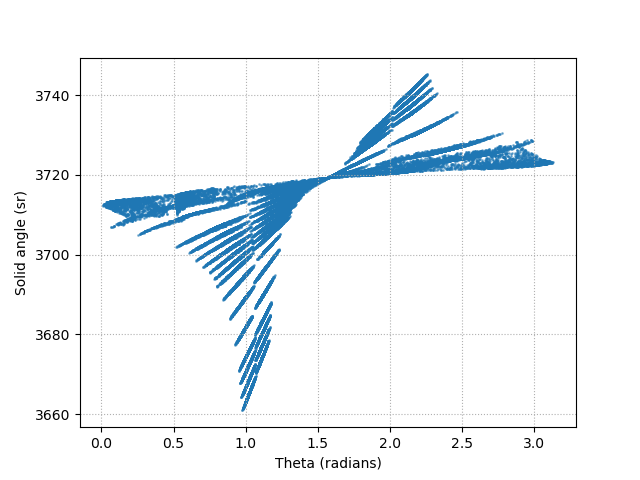
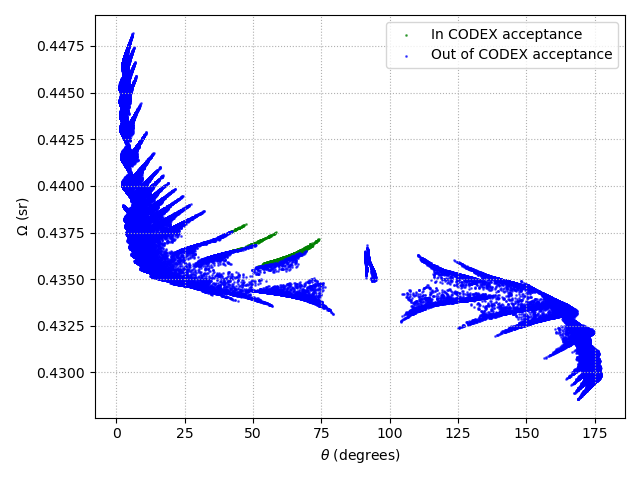
plots emilio

diff --git a/codexb_acceptance.py b/codexb_acceptance.py
@@ -9,6 +9,14 @@ nrows = 100000 # load just the fist 100 000 of rows
 
 df = read_root(path, tree, columns, nrows=nrows)
 
+# Define spherical variables
+
+df['r'] = np.sqrt(df['x']**2 + df['y']**2 + df['z']**2)
+df['theta'] = np.arctan2(np.sqrt(df['x']**2 + df['y']**2), df['z'])
+df['phi'] = np.arctan2(df['y'], df['x'])
+
+df['eta'] = -np.log(np.tan(df['theta'] / 2))
+
 # Define CODEX-B acceptance geometry, model the acceptance as a cone of radius d at distance r from the interaction point
 
 r = 10000 # radius of the cone in mm
@@ -19,33 +27,38 @@ z = 12650 # mm
 
 d = np.sqrt( x**2 + y**2 + z**2 )
 
-theta_max = np.arctan(r/d)
+codex_angular_aperture = np.arctan(r/d)
+
+print(f'Codex angular aperture = {codex_angular_aperture * 180 / np.pi : .2f} degrees')
 
 codexb_center = np.array([x, y, z])
 codexb_axis = codexb_center / np.linalg.norm(codexb_center)
 
 # Compute angles
 
-df['theta'] = compute_angles(codexb_axis, df)
+df['codex_angles'] = compute_angles(codexb_axis, df)
 
 # Check which hits are within the acceptance
 
-df['in_codexb'] = df['theta'].abs() < theta_max
+df['in_codex'] = df['codex_angles'] < codex_angular_aperture
+
+df_in_codex = df[df['in_codex']]
+df_not_in_codex = df[~df['in_codex']]
 
 # Plot hits within acceptance
 
 plt.figure()
 
-plt.plot(df[df['in_codexb']]['z'], df[df['in_codexb']]['x'], '.', color = 'green', zorder=3, label='In CODEX-B acceptance')
-plt.plot(df[~df['in_codexb']]['z'], df[~df['in_codexb']]['x'], '.', color = 'blue', zorder=2, label='Out of CODEX-B acceptance')
+plt.plot(df_in_codex['z'], df_in_codex['x'], '.', color = 'green', zorder=3, label='In CODEX acceptance')
+plt.plot(df_not_in_codex['z'], df_not_in_codex['x'], '.', color = 'blue', zorder=2, label='Out of CODEX acceptance')
 
 # plot the cone boundary (the factors are just for scaling purposes)
 
-a_z = codexb_axis[2] * (np.cos(theta_max) - np.sin(theta_max)) * 70
-a_x = codexb_axis[0] * (np.cos(theta_max) + np.sin(theta_max)) * 70
+a_z = codexb_axis[2] * (np.cos(codex_angular_aperture) - np.sin(codex_angular_aperture)) * 70
+a_x = codexb_axis[0] * (np.cos(codex_angular_aperture) + np.sin(codex_angular_aperture)) * 70
 
-b_z = codexb_axis[2] * (np.cos(theta_max) + np.sin(theta_max)) * 150
-b_x = codexb_axis[0] * (np.cos(theta_max) - np.sin(theta_max)) * 150
+b_z = codexb_axis[2] * (np.cos(codex_angular_aperture) + np.sin(codex_angular_aperture)) * 150
+b_x = codexb_axis[0] * (np.cos(codex_angular_aperture) - np.sin(codex_angular_aperture)) * 150
 
 plt.plot([0, a_z], [0, a_x], 'r--', label='CODEX-B acceptance boundary', zorder=2)
 plt.plot([0, b_z], [0, b_x], 'r--', zorder=4)
@@ -61,8 +74,8 @@ plt.close()
 
 plt.figure()
 
-plt.plot(df[df['in_codexb']]['x'], df[df['in_codexb']]['y'], '.', color = 'green', zorder=3, label='In CODEX-B acceptance')
-plt.plot(df[~df['in_codexb']]['x'], df[~df['in_codexb']]['y'], '.', color = 'blue', zorder=2, label='Out of CODEX-B acceptance')
+plt.plot(df_in_codex['x'], df_in_codex['y'], '.', color = 'green', zorder=3, label='In CODEX acceptance')
+plt.plot(df_not_in_codex['x'], df_not_in_codex['y'], '.', color = 'blue', zorder=2, label='Out of CODEX acceptance')
 
 plt.xlabel('x (mm)')
 plt.ylabel('y (mm)')
@@ -77,7 +90,6 @@ fig = plt.figure(figsize=(12,6))
 
 ax = [fig.add_subplot(1,3, i+1) for i in range (3)]
 
-df_in_codex = df[df['in_codexb']]
 
 ls = ['module', 'chip', 'sensor']
 
@@ -99,17 +111,138 @@ plt.savefig('first_plots/histograms_module_chip_sensor_incodexacceptance.png')
 
 # Now, we may calculate the solid angle subtended by each hit vs theta
 
-Omega_0 = r**2 / d**2
+CODEX_area = np.pi * r**2
+
+v_x = codexb_center[0] - df['x'].values
+v_y = codexb_center[1] - df['y'].values
+v_z = codexb_center[2] - df['z'].values
+
+dist = np.sqrt(v_x**2 + v_y**2 + v_z**2)
+
+df['distance_to_codex'] = dist
+
+cosines = (codexb_axis[0] * v_x + codexb_axis[1] * v_y + codexb_axis[2] * v_z) / dist
+
+df['solid_angle'] = CODEX_area / dist**2 * cosines
 
 
-df['solid_angle'] = Omega_0 * (d - df['x']*codexb_axis[0] - df['y']*codexb_axis[1] - df['z']*codexb_axis[2])
+df_in_codex = df[df['in_codex']]
+df_not_in_codex = df[~df['in_codex']]
+
+# Solid angle vs theta
 
 plt.figure()
 
-plt.scatter(df['theta'], df['solid_angle'], s=1, alpha=0.5)
-plt.xlabel('Theta (radians)')
-plt.ylabel('Solid angle (sr)')
-plt.grid(linestyle=':')
+plt.scatter(df_in_codex['theta'] * 180/np.pi, df_in_codex['solid_angle'], s = 1, color = 'green', alpha = 0.6, label='In CODEX acceptance')
+plt.scatter(df_not_in_codex['theta'] * 180/np.pi, df_not_in_codex['solid_angle'], s = 1, alpha = 0.6, color = 'blue', label='Out of CODEX acceptance')
 
+plt.xlabel('$\\theta$ (degrees)')
+plt.ylabel('$\\Omega$ (sr)')
+plt.grid(linestyle=':')
+plt.legend()
+
+plt.tight_layout()
 plt.savefig('first_plots/solid_angle_vs_theta.png')
 plt.close()
+
+# Solid angle vs eta
+
+plt.figure()
+
+plt.scatter(df_in_codex['eta'], df_in_codex['solid_angle'], s = 1, color = 'green', alpha = 0.6, label='In CODEX acceptance')
+plt.scatter(df_not_in_codex['eta'], df_not_in_codex['solid_angle'], s = 1, alpha = 0.6, color = 'blue', label='Out of CODEX acceptance')
+
+plt.xlabel('$\\eta$')
+plt.ylabel('$\\Omega$ (sr)')
+plt.grid(linestyle=':')
+plt.legend()
+
+plt.tight_layout()
+plt.savefig('first_plots/solid_angle_vs_eta.png')
+plt.close()
+
+# Solid angle vs distance to codex
+
+plt.figure()
+
+plt.scatter(df_in_codex['distance_to_codex'], df_in_codex['solid_angle'], s = 1, color = 'green', alpha = 0.6, label='In CODEX acceptance')
+plt.scatter(df_not_in_codex['distance_to_codex'], df_not_in_codex['solid_angle'], s = 1, alpha = 0.6, color = 'blue', label='Out of CODEX acceptance')
+
+plt.xlabel('Distance to codex (m)')
+plt.ylabel('$\\Omega$ (sr)')
+plt.grid(linestyle=':')
+plt.legend()
+
+plt.tight_layout()
+plt.savefig('first_plots/solid_angle_vs_distance.png')
+plt.close()
+
+# Solid angle vs codex angles
+
+plt.figure()
+
+plt.scatter(df_in_codex['codex_angles'] * 180 / np.pi, df_in_codex['solid_angle'], s = 1, color = 'green', alpha = 0.6, label='In CODEX acceptance')
+plt.scatter(df_not_in_codex['codex_angles'] * 180 / np.pi, df_not_in_codex['solid_angle'], s = 1, alpha = 0.6, color = 'blue', label='Out of CODEX acceptance')
+
+plt.xlabel('$\\psi$ (degrees)')
+plt.ylabel('$\\Omega$ (sr)')
+plt.grid(linestyle=':')
+plt.legend()
+
+plt.tight_layout()
+plt.savefig('first_plots/solid_angle_vs_codex_angle.png')
+plt.close()
+
+# Solid angle vs distance to PV
+
+plt.figure()
+
+plt.scatter(df_in_codex['r'], df_in_codex['solid_angle'], s = 1, color = 'green', alpha = 0.6, label='In CODEX acceptance')
+plt.scatter(df_not_in_codex['r'], df_not_in_codex['solid_angle'], s = 1, alpha = 0.6, color = 'blue', label='Out of CODEX acceptance')
+
+plt.xlabel('Distance to PV (mm)')
+plt.ylabel('$\\Omega$ (sr)')
+plt.grid(linestyle=':')
+plt.legend()
+
+plt.tight_layout()
+plt.savefig('first_plots/solid_angle_vs_distance_to_PV.png')
+plt.close()
+
+# distance to PV vs distance to codex
+
+plt.figure()
+
+plt.scatter(df_in_codex['r'], df_in_codex['distance_to_codex'], s = 1, color = 'green', alpha = 0.6, label='In CODEX acceptance')
+plt.scatter(df_not_in_codex['r'], df_not_in_codex['distance_to_codex'], s = 1, alpha = 0.6, color = 'blue', label='Out of CODEX acceptance')
+
+plt.xlabel('Distance to PV (mm)')
+plt.ylabel('Distance to codex (mm)')
+plt.grid(linestyle=':')
+plt.legend()
+
+plt.tight_layout()
+plt.savefig('first_plots/distance_to_PV_vs_distance_to_codex.png')
+plt.close()
+
+
+# Histograms of codex variables
+
+
+variables = ['r', 'distance_to_codex', 'solid_angle', 'theta', 'eta', 'codex_angles']
+
+for variable in variables:
+
+    plt.figure()
+
+    plt.hist(df_in_codex[variable], bins=50, color='green', alpha=0.6, label='In CODEX acceptance')
+
+    plt.xlabel(variable)
+    plt.ylabel('Counts')
+    plt.grid(linestyle=':')
+    plt.legend()
+
+    plt.tight_layout()
+    plt.savefig(f'first_plots/histogram_{variable}.png')
+    plt.close()
+
